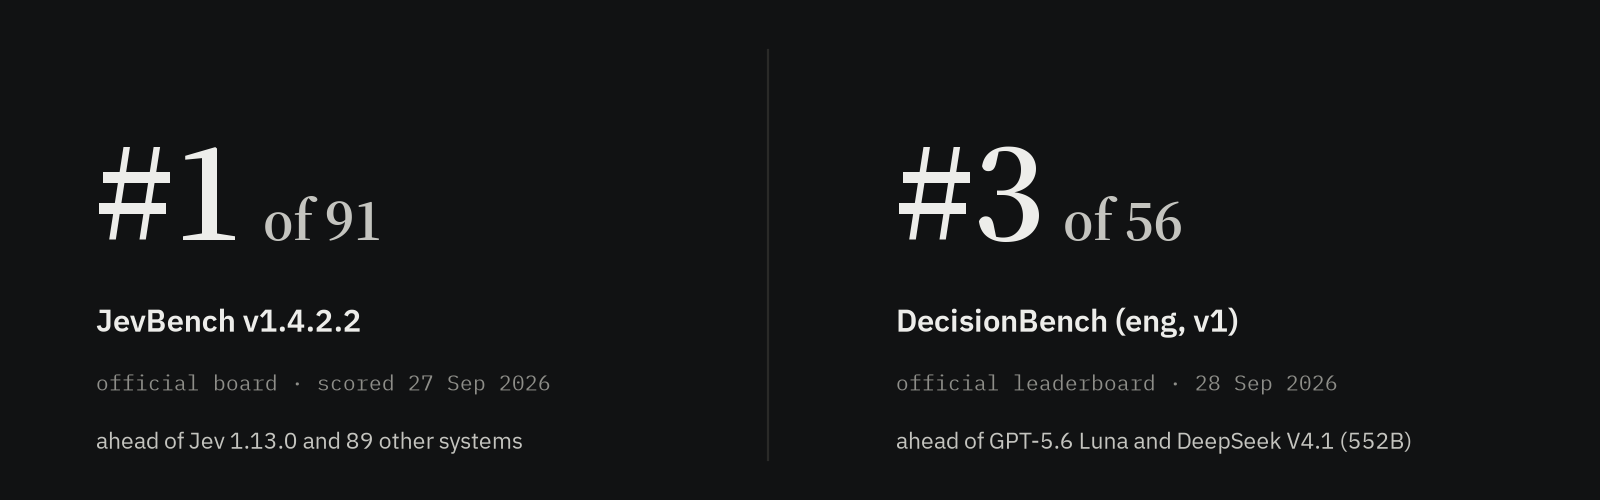
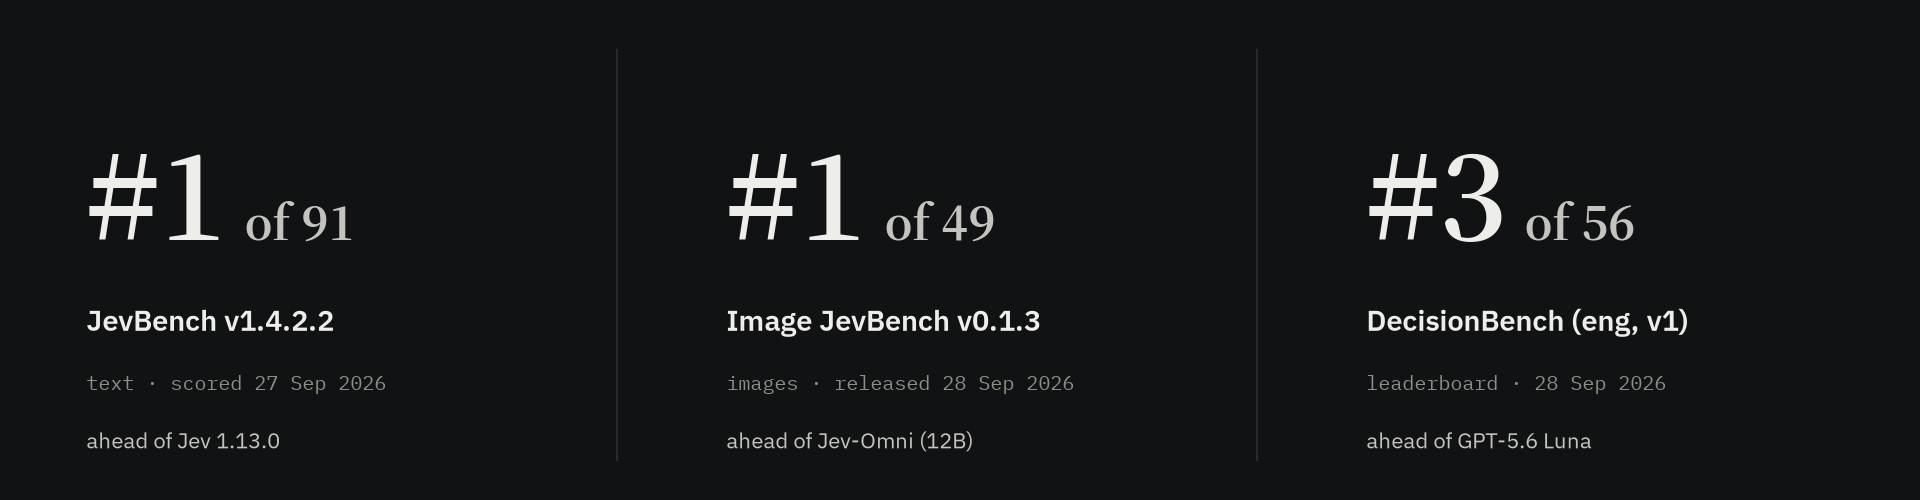
Image JevBench v0.1.3: imajev-4b #1 of 49
The maintainer's fast-serving re-measure (server 8501f5c3, --fast --merge-lora, one option order, shipped
calibration) puts imajev-4b first on Image JevBench v0.1.3 (released 28 Sep 2026): composite 76.39, ahead of
Jev-Omni 73.10 and NeoHorse Jev 4B 71.94; sealed accuracy 83.3%. README rank banner, badges, independent-results
screenshots, official table and the landing page now show both #1s (text and images) with their board versions.

diff --git a/docs/index.html b/docs/index.html
@@ -281,9 +281,10 @@ details{margin-top:18px} summary{cursor:pointer; font:.8rem var(--mono); color:v
 .note{font-size:.9rem; color:var(--ink2); max-width:46rem}
 
 /* bench */
-.ranks{display:grid; grid-template-columns:repeat(2,minmax(0,1fr)); gap:0; border-top:1px solid var(--ink); border-bottom:1px solid var(--rule)}
+.ranks{display:grid; grid-template-columns:repeat(3,minmax(0,1fr)); gap:0; border-top:1px solid var(--ink); border-bottom:1px solid var(--rule)}
 .ranks a{display:grid; gap:2px; padding:16px 16px 16px 0; color:var(--ink2); text-decoration:none; min-width:0}
-.ranks a + a{padding-left:18px; border-left:1px solid var(--rule)}
+.ranks a + a{padding-left:16px; border-left:1px solid var(--rule)}
+@media (max-width:640px){ .ranks{grid-template-columns:minmax(0,1fr)} .ranks a{padding:12px 0} .ranks a + a{padding-left:0; border-left:0; border-top:1px solid var(--rule)} }
 .ranks b{font:600 clamp(2.6rem,5.2vw,3.6rem)/1 var(--serif, 'Source Serif 4', Georgia, serif); color:var(--ink); letter-spacing:-.02em}
 .ranks b small{font-size:.42em; font-weight:500; color:var(--ink2); letter-spacing:0}
 .ranks .bd{font:600 .95rem/1.3 var(--sans); color:var(--ink); margin-top:8px}
@@ -360,8 +361,9 @@ footer h3{font:600 .88rem var(--sans); color:var(--ink); margin-bottom:6px}
     <div class="copy">
       <span class="label">imajev 1.0 · open models for everyday business decisions</span>
       <div class="ranks">
-        <a href="https://benchmarkheaven.com/jev-models"><b>#1<small> of 91</small></b><span class="bd">JevBench v1.4.2.2</span><span class="w">official board · scored 27 Sep 2026</span><span class="n">ahead of Jev 1.13.0 and 89 other systems</span></a>
-        <a href="https://huggingface.co/spaces/Hanno-Labs/decision-bench-leaderboard"><b>#3<small> of 56</small></b><span class="bd">DecisionBench (eng, v1)</span><span class="w">official leaderboard · 28 Sep 2026</span><span class="n">ahead of GPT-5.6 Luna and DeepSeek V4.1 (552B)</span></a>
+        <a href="https://benchmarkheaven.com/jev-models"><b>#1<small> of 91</small></b><span class="bd">JevBench v1.4.2.2</span><span class="w">text · scored 27 Sep 2026</span><span class="n">ahead of Jev 1.13.0</span></a>
+        <a href="https://benchmarkheaven.com/image-jev-bench"><b>#1<small> of 49</small></b><span class="bd">Image JevBench v0.1.3</span><span class="w">images · released 28 Sep 2026</span><span class="n">ahead of Jev-Omni (12B)</span></a>
+        <a href="https://huggingface.co/spaces/Hanno-Labs/decision-bench-leaderboard"><b>#3<small> of 56</small></b><span class="bd">DecisionBench (eng, v1)</span><span class="w">leaderboard · 28 Sep 2026</span><span class="n">ahead of GPT-5.6 Luna</span></a>
       </div>
       <h1>Decisions for real-world cases.</h1>
       <p class="lead">Your teams make the same judgements thousands of times a day: does this listing match its photo, is this the item we shipped, who owns this ticket, does this refund meet the policy. imajev reads the photos, records and text you already have and answers in the options you set, with a probability on each and an explicit <i>can't tell</i>. Your system acts when it is sure and hands the rest to a person.</p>
@@ -389,6 +391,8 @@ footer h3{font:600 .88rem var(--sans); color:var(--ink); margin-bottom:6px}
   <div class="proof">
     <figure class="wide"><a href="https://benchmarkheaven.com/jev-models"><img src="assets/proof/proof-jevbench-score.png" alt="JevBench v1.4.2.2 Composite Score: 1 Imajev-4B 67.4, 2 Plumb-4B 65.8, 3 decider-4b v2 64.1, 4 Jev 1.13.0 63.3" loading="lazy"></a>
       <figcaption><b>#1 of 91 on JevBench v1.4.2.2</b> (scored 27 Sep 2026). imajev-4b 67.37, ahead of Plumb-4B and TypeSafe's own Jev 1.13.0.</figcaption></figure>
+    <figure class="wide"><a href="https://benchmarkheaven.com/image-jev-bench"><img src="assets/proof/proof-image-jevbench.png" alt="Image JevBench v0.1.3 composite score: 1 Imajev-4B 76.39, 2 Jev-Omni 73.10, 3 NeoHorse Jev 4B 71.94, 6 imajev 2B 68.72" loading="lazy"></a>
+      <figcaption><b>#1 of 49 on Image JevBench v0.1.3</b> (released 28 Sep 2026). imajev-4b 76.39, ahead of Jev-Omni (12B) and NeoHorse Jev 4B. Sealed accuracy 83.3%, second of 44 self-hosted systems.</figcaption></figure>
     <figure class="wide"><a href="https://huggingface.co/spaces/Hanno-Labs/decision-bench-leaderboard"><img src="assets/proof/proof-decisionbench.png" alt="DecisionBench (eng, v1): 3 imajev-4b 79.65, ahead of glm-5.3-flash, jev-1.13, deepseek-v4.1-flash and gpt-5.6-luna" loading="lazy"></a>
       <figcaption><b>#3 of 56 models on DecisionBench</b>, 79.65: ahead of GLM-5.3 Flash (320B), Jev 1.13, DeepSeek V4.1 Flash (552B) and GPT-5.6 Luna. The two above are the benchmark team's own models.</figcaption></figure>
     <figure><a href="https://benchmarkheaven.com/jev-models"><img src="assets/proof/proof-jevbench-capability.png" alt="JevBench Capability ranking: Imajev-4B leads the Jev-class systems with 66.3" loading="lazy"></a>
@@ -515,7 +519,7 @@ footer h3{font:600 .88rem var(--sans); color:var(--ink); margin-bottom:6px}
       <li><span class="n">7</span><span class="name">Hopper</span><span class="bar"><i style="width:74.3%"></i></span><span class="v">59.43</span></li>
       <li><span class="n">8</span><span class="name">Winnow-12B Q8</span><span class="bar"><i style="width:69.5%"></i></span><span class="v">55.58</span></li>
     </ol>
-    <p class="foot">JevBench Score: equal-weight harmonic mean of Intelligence, Calibration, Speed and Cost (0 to 100). imajev-4b: Intelligence 52.2, Calibration 80.4 (best of the top 8), Speed 90.6, Cost 59.7; also #1 on the board's Capability ranking of Jev-class systems (66.3 vs Jev 1.13.0 at 64.7). Served with one option order and its calibration file. Source: <a href="https://benchmarkheaven.com/jev-models">benchmarkheaven.com/jev-models</a> · <a href="https://github.com/fstandhartinger/jevbench/tree/main/results/v1.4.2.2">data</a>. On <a href="https://huggingface.co/spaces/Hanno-Labs/decision-bench-leaderboard">DecisionBench</a> the 4B is #3 of 56 models (79.65), behind two models built by that benchmark's team. On Image JevBench v0.1.2 the 2B is #5 and the 4B #11 of 49; a re-measure with the faster server is under way.</p>
+    <p class="foot">JevBench Score: equal-weight harmonic mean of Intelligence, Calibration, Speed and Cost (0 to 100). imajev-4b: Intelligence 52.2, Calibration 80.4 (best of the top 8), Speed 90.6, Cost 59.7; also #1 on the board's Capability ranking of Jev-class systems (66.3 vs Jev 1.13.0 at 64.7). Served with one option order and its calibration file. Source: <a href="https://benchmarkheaven.com/jev-models">benchmarkheaven.com/jev-models</a> · <a href="https://github.com/fstandhartinger/jevbench/tree/main/results/v1.4.2.2">data</a>. On <a href="https://huggingface.co/spaces/Hanno-Labs/decision-bench-leaderboard">DecisionBench</a> the 4B is #3 of 56 models (79.65), behind two models built by that benchmark's team. On <a href="https://benchmarkheaven.com/image-jev-bench">Image JevBench v0.1.3</a> (released 28 Sep 2026) the 4B is #1 of 49 (76.39, ahead of Jev-Omni at 73.10), measured on the fast server; the 2B is #6.</p>
   </div>
   <div class="bench">
     <figure><div id="c-ib"></div><figcaption><b>ImajevBench v2.0-lite</b>, 279 test items: photos, records and text, including 21 items whose right answer is unknown. Dot is accuracy, line the 95% cluster interval. Frontier APIs answer by structured generation, a different interface taking 5 to 8 s per item; starred ones also screened the benchmark's images. 51 contrast sets pair a scene with an edited copy whose right answer must change, become unknown, or stay; the 4B gets all of a set right in 36 of 51 (9B 35, 2B 25).</figcaption></figure>

diff --git a/site/landing_template.html b/site/landing_template.html
@@ -271,9 +271,10 @@ details{margin-top:18px} summary{cursor:pointer; font:.8rem var(--mono); color:v
 .note{font-size:.9rem; color:var(--ink2); max-width:46rem}
 
 /* bench */
-.ranks{display:grid; grid-template-columns:repeat(2,minmax(0,1fr)); gap:0; border-top:1px solid var(--ink); border-bottom:1px solid var(--rule)}
+.ranks{display:grid; grid-template-columns:repeat(3,minmax(0,1fr)); gap:0; border-top:1px solid var(--ink); border-bottom:1px solid var(--rule)}
 .ranks a{display:grid; gap:2px; padding:16px 16px 16px 0; color:var(--ink2); text-decoration:none; min-width:0}
-.ranks a + a{padding-left:18px; border-left:1px solid var(--rule)}
+.ranks a + a{padding-left:16px; border-left:1px solid var(--rule)}
+@media (max-width:640px){ .ranks{grid-template-columns:minmax(0,1fr)} .ranks a{padding:12px 0} .ranks a + a{padding-left:0; border-left:0; border-top:1px solid var(--rule)} }
 .ranks b{font:600 clamp(2.6rem,5.2vw,3.6rem)/1 var(--serif, 'Source Serif 4', Georgia, serif); color:var(--ink); letter-spacing:-.02em}
 .ranks b small{font-size:.42em; font-weight:500; color:var(--ink2); letter-spacing:0}
 .ranks .bd{font:600 .95rem/1.3 var(--sans); color:var(--ink); margin-top:8px}
@@ -348,8 +349,9 @@ footer h3{font:600 .88rem var(--sans); color:var(--ink); margin-bottom:6px}
     <div class="copy">
       <span class="label">imajev 1.0 · open models for everyday business decisions</span>
       <div class="ranks">
-        <a href="https://benchmarkheaven.com/jev-models"><b>#1<small> of 91</small></b><span class="bd">JevBench v1.4.2.2</span><span class="w">official board · scored 27 Sep 2026</span><span class="n">ahead of Jev 1.13.0 and 89 other systems</span></a>
-        <a href="https://huggingface.co/spaces/Hanno-Labs/decision-bench-leaderboard"><b>#3<small> of 56</small></b><span class="bd">DecisionBench (eng, v1)</span><span class="w">official leaderboard · 28 Sep 2026</span><span class="n">ahead of GPT-5.6 Luna and DeepSeek V4.1 (552B)</span></a>
+        <a href="https://benchmarkheaven.com/jev-models"><b>#1<small> of 91</small></b><span class="bd">JevBench v1.4.2.2</span><span class="w">text · scored 27 Sep 2026</span><span class="n">ahead of Jev 1.13.0</span></a>
+        <a href="https://benchmarkheaven.com/image-jev-bench"><b>#1<small> of 49</small></b><span class="bd">Image JevBench v0.1.3</span><span class="w">images · released 28 Sep 2026</span><span class="n">ahead of Jev-Omni (12B)</span></a>
+        <a href="https://huggingface.co/spaces/Hanno-Labs/decision-bench-leaderboard"><b>#3<small> of 56</small></b><span class="bd">DecisionBench (eng, v1)</span><span class="w">leaderboard · 28 Sep 2026</span><span class="n">ahead of GPT-5.6 Luna</span></a>
       </div>
       <h1>Decisions for real-world cases.</h1>
       <p class="lead">Your teams make the same judgements thousands of times a day: does this listing match its photo, is this the item we shipped, who owns this ticket, does this refund meet the policy. imajev reads the photos, records and text you already have and answers in the options you set, with a probability on each and an explicit <i>can't tell</i>. Your system acts when it is sure and hands the rest to a person.</p>
@@ -377,6 +379,8 @@ footer h3{font:600 .88rem var(--sans); color:var(--ink); margin-bottom:6px}
   <div class="proof">
     <figure class="wide"><a href="https://benchmarkheaven.com/jev-models"><img src="assets/proof/proof-jevbench-score.png" alt="JevBench v1.4.2.2 Composite Score: 1 Imajev-4B 67.4, 2 Plumb-4B 65.8, 3 decider-4b v2 64.1, 4 Jev 1.13.0 63.3" loading="lazy"></a>
       <figcaption><b>#1 of 91 on JevBench v1.4.2.2</b> (scored 27 Sep 2026). imajev-4b 67.37, ahead of Plumb-4B and TypeSafe's own Jev 1.13.0.</figcaption></figure>
+    <figure class="wide"><a href="https://benchmarkheaven.com/image-jev-bench"><img src="assets/proof/proof-image-jevbench.png" alt="Image JevBench v0.1.3 composite score: 1 Imajev-4B 76.39, 2 Jev-Omni 73.10, 3 NeoHorse Jev 4B 71.94, 6 imajev 2B 68.72" loading="lazy"></a>
+      <figcaption><b>#1 of 49 on Image JevBench v0.1.3</b> (released 28 Sep 2026). imajev-4b 76.39, ahead of Jev-Omni (12B) and NeoHorse Jev 4B. Sealed accuracy 83.3%, second of 44 self-hosted systems.</figcaption></figure>
     <figure class="wide"><a href="https://huggingface.co/spaces/Hanno-Labs/decision-bench-leaderboard"><img src="assets/proof/proof-decisionbench.png" alt="DecisionBench (eng, v1): 3 imajev-4b 79.65, ahead of glm-5.3-flash, jev-1.13, deepseek-v4.1-flash and gpt-5.6-luna" loading="lazy"></a>
       <figcaption><b>#3 of 56 models on DecisionBench</b>, 79.65: ahead of GLM-5.3 Flash (320B), Jev 1.13, DeepSeek V4.1 Flash (552B) and GPT-5.6 Luna. The two above are the benchmark team's own models.</figcaption></figure>
     <figure><a href="https://benchmarkheaven.com/jev-models"><img src="assets/proof/proof-jevbench-capability.png" alt="JevBench Capability ranking: Imajev-4B leads the Jev-class systems with 66.3" loading="lazy"></a>
@@ -503,7 +507,7 @@ footer h3{font:600 .88rem var(--sans); color:var(--ink); margin-bottom:6px}
       <li><span class="n">7</span><span class="name">Hopper</span><span class="bar"><i style="width:74.3%"></i></span><span class="v">59.43</span></li>
       <li><span class="n">8</span><span class="name">Winnow-12B Q8</span><span class="bar"><i style="width:69.5%"></i></span><span class="v">55.58</span></li>
     </ol>
-    <p class="foot">JevBench Score: equal-weight harmonic mean of Intelligence, Calibration, Speed and Cost (0 to 100). imajev-4b: Intelligence 52.2, Calibration 80.4 (best of the top 8), Speed 90.6, Cost 59.7; also #1 on the board's Capability ranking of Jev-class systems (66.3 vs Jev 1.13.0 at 64.7). Served with one option order and its calibration file. Source: <a href="https://benchmarkheaven.com/jev-models">benchmarkheaven.com/jev-models</a> · <a href="https://github.com/fstandhartinger/jevbench/tree/main/results/v1.4.2.2">data</a>. On <a href="https://huggingface.co/spaces/Hanno-Labs/decision-bench-leaderboard">DecisionBench</a> the 4B is #3 of 56 models (79.65), behind two models built by that benchmark's team. On Image JevBench v0.1.2 the 2B is #5 and the 4B #11 of 49; a re-measure with the faster server is under way.</p>
+    <p class="foot">JevBench Score: equal-weight harmonic mean of Intelligence, Calibration, Speed and Cost (0 to 100). imajev-4b: Intelligence 52.2, Calibration 80.4 (best of the top 8), Speed 90.6, Cost 59.7; also #1 on the board's Capability ranking of Jev-class systems (66.3 vs Jev 1.13.0 at 64.7). Served with one option order and its calibration file. Source: <a href="https://benchmarkheaven.com/jev-models">benchmarkheaven.com/jev-models</a> · <a href="https://github.com/fstandhartinger/jevbench/tree/main/results/v1.4.2.2">data</a>. On <a href="https://huggingface.co/spaces/Hanno-Labs/decision-bench-leaderboard">DecisionBench</a> the 4B is #3 of 56 models (79.65), behind two models built by that benchmark's team. On <a href="https://benchmarkheaven.com/image-jev-bench">Image JevBench v0.1.3</a> (released 28 Sep 2026) the 4B is #1 of 49 (76.39, ahead of Jev-Omni at 73.10), measured on the fast server; the 2B is #6.</p>
   </div>
   <div class="bench">
     <figure><div id="c-ib"></div><figcaption><b>ImajevBench v2.0-lite</b>, 279 test items: photos, records and text, including 21 items whose right answer is unknown. Dot is accuracy, line the 95% cluster interval. Frontier APIs answer by structured generation, a different interface taking 5 to 8 s per item; starred ones also screened the benchmark's images. 51 contrast sets pair a scene with an edited copy whose right answer must change, become unknown, or stay; the 4B gets all of a set right in 36 of 51 (9B 35, 2B 25).</figcaption></figure>

diff --git a/site/build_site.py b/site/build_site.py
@@ -411,23 +411,25 @@ def chart_jevbench_official(t, name):
 
 
 def build_rank_banner():
-    """README / model-card hero: the two official ranks, big. assets/social/ranks-{light,dark}.png (1600x500)."""
+    """README / model-card hero: the official ranks, big. assets/social/ranks-{light,dark}.png (1920x500)."""
     (OUT / "social").mkdir(parents=True, exist_ok=True)
-    cols = [("#1", "of 91", "JevBench v1.4.2.2", "official board · scored 27 Sep 2026", "ahead of Jev 1.13.0 and 89 other systems"),
-            ("#3", "of 56", "DecisionBench (eng, v1)", "official leaderboard · 28 Sep 2026", "ahead of GPT-5.6 Luna and DeepSeek V4.1 (552B)")]
-    W, H = 10.0, 3.125
+    cols = [("#1", "of 91", "JevBench v1.4.2.2", "text · scored 27 Sep 2026", "ahead of Jev 1.13.0"),
+            ("#1", "of 49", "Image JevBench v0.1.3", "images · released 28 Sep 2026", "ahead of Jev-Omni (12B)"),
+            ("#3", "of 56", "DecisionBench (eng, v1)", "leaderboard · 28 Sep 2026", "ahead of GPT-5.6 Luna")]
+    W, H = 12.0, 3.125
     for name, t in THEMES.items():
         fig = plt.figure(figsize=(W, H), dpi=160); fig.patch.set_facecolor(t["bg"])
         r = fig.canvas.get_renderer()
         for i, (big, of, board, when, note) in enumerate(cols):
-            x = 0.06 + i * 0.5
-            tb = fig.text(x, 0.52, big, fontproperties=fp(DISPLAY, 64), color=t["ink"], va="baseline")
+            x = 0.045 + i / 3
+            tb = fig.text(x, 0.52, big, fontproperties=fp(DISPLAY, 60), color=t["ink"], va="baseline")
             bw = tb.get_window_extent(renderer=r).width / (W * 160)
-            fig.text(x + bw + 0.012, 0.52, of, fontproperties=fp(DISPLAY, 26), color=t["ink2"], va="baseline")
-            fig.text(x, 0.36, board, fontproperties=fp(SANS_B, 14), color=t["ink"], va="center")
-            fig.text(x, 0.235, when, fontproperties=fp(MONO, 9.5), color=t["muted"], va="center")
-            fig.text(x, 0.12, note, fontproperties=fp(SANS, 10.5), color=t["ink2"], va="center")
-        fig.lines.append(matplotlib.lines.Line2D([0.5 - 0.02, 0.5 - 0.02], [0.08, 0.9], transform=fig.transFigure, color=t["hair"], linewidth=1))
+            fig.text(x + bw + 0.01, 0.52, of, fontproperties=fp(DISPLAY, 24), color=t["ink2"], va="baseline")
+            fig.text(x, 0.36, board, fontproperties=fp(SANS_B, 13), color=t["ink"], va="center")
+            fig.text(x, 0.235, when, fontproperties=fp(MONO, 9), color=t["muted"], va="center")
+            fig.text(x, 0.12, note, fontproperties=fp(SANS, 10), color=t["ink2"], va="center")
+            if i:
+                fig.lines.append(matplotlib.lines.Line2D([i / 3 - 0.012] * 2, [0.08, 0.9], transform=fig.transFigure, color=t["hair"], linewidth=1))
         fig.savefig(OUT / "social" / f"ranks-{name}.png", facecolor=t["bg"]); plt.close(fig)
 
 
@@ -489,7 +491,7 @@ def build_social():
         fig.text(0.975, y - 0.034, f"{v:.3f}", fontproperties=fp(MONO, 10.5), color=t["ink2"], va="center", ha="right")
         y -= 0.105
     fig.text(0.60, 0.07, "github.com/mohit67890/imajev", fontproperties=fp(MONO_M, 12.5), color=t["accent"])
-    fig.text(0.055, 0.07, "#1 of 91 · JevBench v1.4.2.2 · scored 27 Sep 2026", fontproperties=fp(MONO_M, 13), color=t["ink"])
+    fig.text(0.055, 0.07, "#1 JevBench (text) · #1 Image JevBench · Sep 2026", fontproperties=fp(MONO_M, 13), color=t["ink"])
     fig.savefig(OUT / "social" / "social-card.png", facecolor=t["bg"]); plt.close(fig)
 
 

diff --git a/README.md b/README.md
@@ -13,10 +13,11 @@ with a probability on each and an explicit <i>can't tell</i>. Your system acts w
   <a href="https://huggingface.co/datasets/mohit67890/imajev-bench"><img alt="ImajevBench" src="https://img.shields.io/badge/benchmark-ImajevBench-555555?style=flat-square"></a>
 </p>
 
-<p align="center"><a href="#independent-results"><picture><source media="(prefers-color-scheme: dark)" srcset="docs/assets/social/ranks-dark.png"><img alt="#1 of 91 on JevBench v1.4.2.2 (official board, scored 27 Sep 2026), ahead of Jev 1.13.0. #3 of 56 on DecisionBench (eng, v1) (official leaderboard, 28 Sep 2026), ahead of GPT-5.6 Luna and DeepSeek V4.1 (552B)." src="docs/assets/social/ranks-light.png" width="820"></picture></a></p>
+<p align="center"><a href="#independent-results"><picture><source media="(prefers-color-scheme: dark)" srcset="docs/assets/social/ranks-dark.png"><img alt="#1 of 91 on JevBench v1.4.2.2 (text, scored 27 Sep 2026), ahead of Jev 1.13.0. #1 of 49 on Image JevBench v0.1.3 (images, released 28 Sep 2026), ahead of Jev-Omni. #3 of 56 on DecisionBench (eng, v1), 28 Sep 2026, ahead of GPT-5.6 Luna." src="docs/assets/social/ranks-light.png" width="820"></picture></a></p>
 
 <p align="center">
   <a href="https://benchmarkheaven.com/jev-models"><img alt="JevBench v1.4.2.2: #1 of 91" src="https://img.shields.io/badge/JevBench%20v1.4.2.2-%231%20of%2091-111111?style=for-the-badge"></a>
+  <a href="https://benchmarkheaven.com/image-jev-bench"><img alt="Image JevBench v0.1.3: #1 of 49" src="https://img.shields.io/badge/Image%20JevBench%20v0.1.3-%231%20of%2049-111111?style=for-the-badge"></a>
   <a href="https://huggingface.co/spaces/Hanno-Labs/decision-bench-leaderboard"><img alt="DecisionBench: #3 of 56 models" src="https://img.shields.io/badge/DecisionBench-%233%20of%2056%20models-111111?style=for-the-badge"></a>
 </p>
 
@@ -33,6 +34,12 @@ Screenshots of the official leaderboards, captured 28 Sep 2026. Each board is ru
 Scored 27 Sep 2026. imajev-4b 67.37, ahead of Plumb-4B (65.84) and TypeSafe's own Jev 1.13.0 (63.29).
 
 <a href="https://benchmarkheaven.com/jev-models"><img alt="JevBench v1.4.2.2 Composite Score, screenshot of benchmarkheaven.com: 1 Imajev-4B 67.4, 2 Plumb-4B 65.8, 3 decider-4b v2 64.1, 4 Jev 1.13.0 63.3" src="docs/assets/proof/proof-jevbench-score.png"></a>
+
+### #1 of 49 on Image JevBench v0.1.3
+
+Released 28 Sep 2026. imajev-4b 76.39, ahead of Jev-Omni (12B, 73.10) and NeoHorse Jev 4B (71.94); imajev-2b is #6. Sealed accuracy 83.3%, second of 44 self-hosted systems. Measured by the maintainer on the fast server (`--fast --merge-lora`, one option order, shipped calibration).
+
+<a href="https://benchmarkheaven.com/image-jev-bench"><img alt="Image JevBench v0.1.3 composite score, screenshot of benchmarkheaven.com: 1 Imajev-4B 76.39, 2 Jev-Omni 73.10, 3 NeoHorse Jev 4B 71.94, 6 imajev 2B 68.72" src="docs/assets/proof/proof-image-jevbench.png"></a>
 
 ### #1 on JevBench's headline Capability ranking
 
@@ -338,7 +345,7 @@ Measured by each benchmark's maintainer, not by us. Boards move; every rank is q
 |---|---|---|
 | **JevBench v1.4.2.2** (Benchmark Heaven, scored 27 Sep 2026; 91 ranked systems) | **imajev-4b #1, JevBench Score 67.37** (Intelligence 52.2, Calibration 80.4, Speed 90.6, Cost 59.7). Plumb-4B 65.84, decider-4b v2 64.13, Jev 1.13.0 63.29. #1 under four of the board's five weightings (#2 under speed-heavy 20:60:20, #3 on Intelligence alone); best Calibration of the top 8. Also #1 on the board's Capability ranking of Jev-class systems (mean of Intelligence and Calibration): 66.3 vs Jev 1.13.0 64.7. Cost on the board's estimate: $0.022 per 1,000 decisions (Jev $0.040). | [board](https://benchmarkheaven.com/jev-models) · [data](https://github.com/fstandhartinger/jevbench/tree/main/results/v1.4.2.2) |
 | **DecisionBench (eng, v1)** (Hanno-Labs, 23 tasks, 23,900 rows; 56 models) | **imajev-4b #3, 79.65** (mean task score), every row answered; ahead of GLM-5.3 Flash 73.41, Jev 1.13 71.90, DeepSeek V4.1 Flash 70.68, GPT-5.6 Luna 69.04. The two above are the benchmark team's own Bosun v3.1 1.7B (87.29) and 0.6B (83.20). On the separate **Reasoning** track: **#3, 80.58**, behind GLM-5.3 Flash (86.92) and GPT-5.6 Luna (86.17). | [leaderboard](https://huggingface.co/spaces/Hanno-Labs/decision-bench-leaderboard) · [registry](https://github.com/Hanno-Labs/decision-bench-results) (results PR #68, merged 28 Sep 2026) |
-| **Image JevBench v0.1.2** (Benchmark Heaven; 49 systems) | imajev-2b #5 (68.72), imajev-4b #11 (65.72). The 4B has the 2nd-highest sealed accuracy of 44 self-hosted systems (83.1%); its rank is held back by GPU time on the Cost axis. A re-measure with the faster server (`--fast --merge-lora`) is under way. | [board](https://benchmarkheaven.com/image-jev-bench) |
+| **Image JevBench v0.1.3** (Benchmark Heaven, released 28 Sep 2026; 49 systems, 684 items) | **imajev-4b #1, composite 76.39** (Intelligence 73.8, Calibration 90.5, Speed 87.6, Cost 61.2), ahead of Jev-Omni 73.10 and NeoHorse Jev 4B 71.94; sealed accuracy 83.3% (380/456), second of 44 self-hosted systems; $0.0197 per 1,000 decisions, p50 0.099 s. Measured with this repository at `8501f5c3`, adapter `c9e5f132`, `--fast --merge-lora --rotations 1 --calibration calibration.json` (it was #11 at 65.72 on v0.1.2 with the slower server). imajev-2b #6 (68.72). The board notes that v0.1.3's 333 fresh sealed items are its own synthetic images. | [board](https://benchmarkheaven.com/image-jev-bench) · [data](https://github.com/fstandhartinger/model-market-comparison/blob/7fadb0b0/data/raw/benchmarks/jevbench/multimodal-preview/preview.json) |
 
 Official JevBench setup: adapter `mohit67890/imajev-4b` at revision `c9e5f132`, this repository at `a0134749`, served with
 `--rotations 1 --calibration calibration.json` (one option order, the shipped calibration file).

diff --git a/model-cards/imajev-4b.md b/model-cards/imajev-4b.md
@@ -2,7 +2,7 @@
 
 The full model card lives on Hugging Face: https://huggingface.co/mohit67890/imajev-4b
 
-Official boards: **#1 of 91 on JevBench v1.4.2.2** (scored 27 Sep 2026; JevBench Score 67.37; https://benchmarkheaven.com/jev-models; adapter revision `c9e5f132`, served with
+Official boards: **#1 of 49 on Image JevBench v0.1.3** (released 28 Sep 2026; composite 76.39; https://benchmarkheaven.com/image-jev-bench; fast server `--fast --merge-lora`), **#1 of 91 on JevBench v1.4.2.2** (scored 27 Sep 2026; JevBench Score 67.37; https://benchmarkheaven.com/jev-models; adapter revision `c9e5f132`, served with
 `--rotations 1 --calibration calibration.json`) and **#3 of 56 models on DecisionBench (eng, v1)** (79.65; https://huggingface.co/spaces/Hanno-Labs/decision-bench-leaderboard; results PR Hanno-Labs/decision-bench-results#68, merged 28 Sep 2026).
 
 Summary (phase-3 version, 2026-09-26): Qwen3.5-4B + LoRA (r64/α128, language layers) + 256-code decision readout (255 options + unknown);
